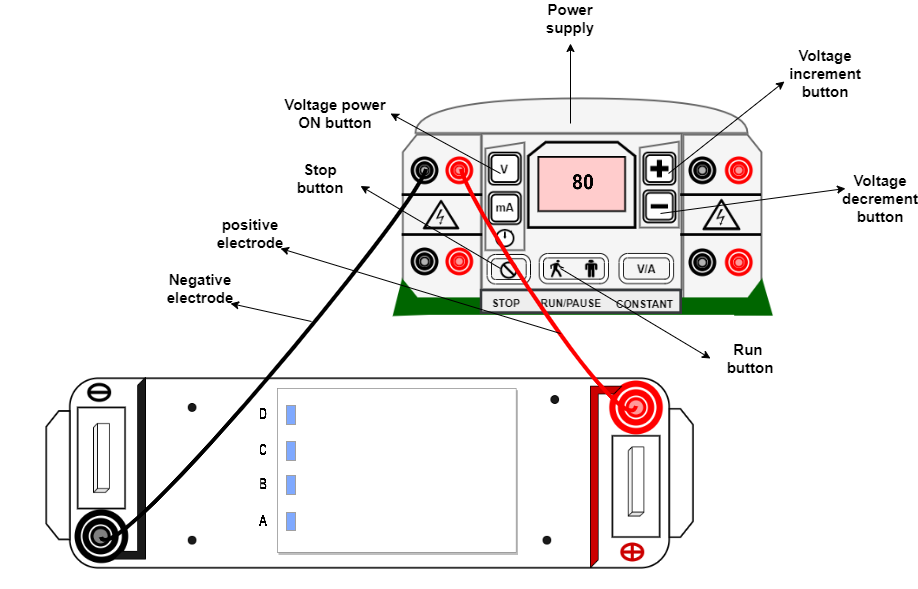
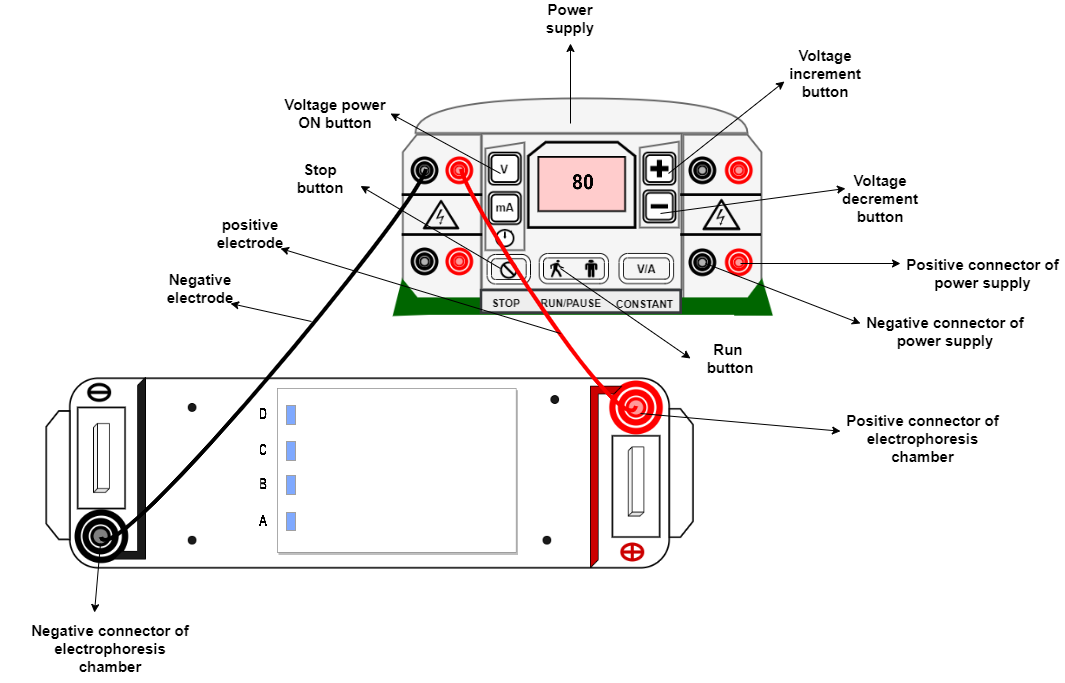
agarosegel

Changed region(s): [[0.0305, 0.0611, 1.0, 1.0], [0.8235, 0.0917, 0.9455, 0.1834], [0.5185, 0.0, 0.6405, 0.0917]]

diff --git a/experiment/simulation/index.html b/experiment/simulation/index.html
@@ -75,10 +75,10 @@ Developer: Prakriti Dhang
 							</li>
 							<li>Now, Click on the dropdown and select "Load Sample A". Click on the pipette A and drag
 								the pipette near the lane A (or well A) in the electrophorersis chamber. Repeat for sample B, C, and D.</li>
-							<li> Click on "Setting up Electrophoresis" button. Next to connect, click and drag the negative electrode of
+							<li> Click on "Setting up Electrophoresis" button. Next to connect, click and drag the negative connector of
 								electrophorersis
-								chamber to negative electrode of power supply. To connect, click and drag
-								positive electrode  of electrophorersis chamber to positive electrode of power supply. For any wrong connection, click on the wire to disconnect. (The positive electrode is colored red, whereas the negative electrode is colored black.)
+								chamber to negative connector of power supply. To connect, click and drag
+								positive connector  of electrophorersis chamber to positive connector of power supply. For any wrong connection, click on the wire to disconnect. (The positive electrode is colored red, whereas the negative electrode is colored black.)
 
 							</li>
 							<li> Now click on "V" button of the power supply to switch ON the power. And "+" sign button of the power supply to set the voltage between 50 V and  100 V.</li>
